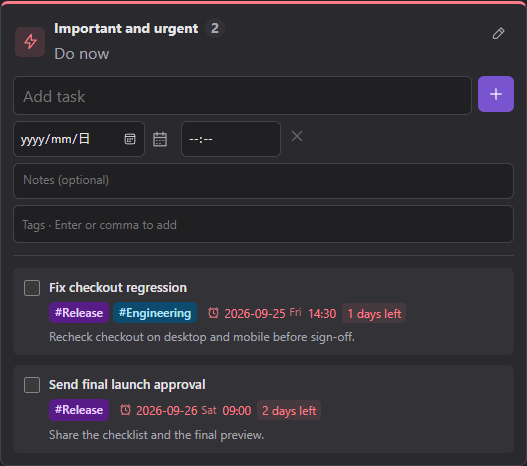
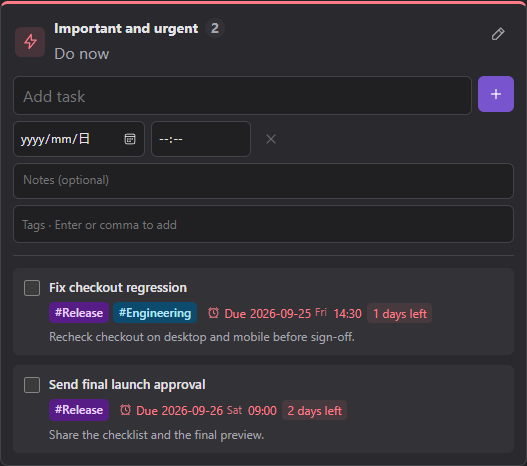
Refresh README previews for 2.7.6 and show labeled completion history

diff --git a/README.md b/README.md
@@ -20,7 +20,7 @@ Prioritize work by importance and urgency without leaving your notes. Add deadli
   <img src="docs/assets/renderer-overview-light.png" alt="Four quadrants with task cards, colored tags, deadlines and completed-history controls">
 </picture>
 
-*Version 2.7.4 renderer preview, using [fictional launch-planning tasks](docs/demo/Matrix%20Demo.md). The browser harness simulates the Obsidian shell and icons; your theme, native date picker and device may look different. [Media details](docs/assets/README.md).*
+*Version 2.7.6 renderer preview, using [fictional launch-planning tasks](docs/demo/Matrix%20Demo.md). The browser harness simulates the Obsidian shell and icons; your theme, native date picker and device may look different. [Media details](docs/assets/README.md).*
 
 - **Local to every note:** each matrix owns its tasks and completed history, and a note can contain more than one matrix.
 - **Markdown-backed:** tasks, quadrants, ordering, and completion times travel with the note through Obsidian Sync, Remotely Save, or Git.
@@ -60,7 +60,7 @@ The default quadrants are **Do** (important and urgent), **Schedule** (important
 
 In **Settings → Community plugins**, check for updates and update this plugin on each device. For a manual update, replace the same three files with files from **one release**, then reload the plugin or Obsidian; leave your notes and `data.json` intact. Do not use GitHub's automatic **Source code** ZIP as an installable plugin package.
 
-Back up your notes before upgrading. **Update all devices to 2.7.0 or later before editing tags or deadline times:** older versions can discard those fields when saving. Usage notes describe [2.7.6](https://github.com/AngusK97/obsidian-eisenhower-matrix-blocks/releases/tag/2.7.6); previews were captured with 2.7.4. See the [changelog](CHANGELOG.md) for changes.
+Back up your notes before upgrading. **Update all devices to 2.7.0 or later before editing tags or deadline times:** older versions can discard those fields when saving. Usage notes and previews reflect [2.7.6](https://github.com/AngusK97/obsidian-eisenhower-matrix-blocks/releases/tag/2.7.6). See the [changelog](CHANGELOG.md) for changes.
 
 ## Boards belong to notes
 
@@ -147,6 +147,13 @@ IME composition is respected, so confirming Chinese text does not prematurely su
 - Collapse the board to show its title, quadrant names/counts and completed count.
 
 Collapse state, filters, scroll-display mode and unsaved input are temporary view state, not synced task data. Reopening or recreating the view can reset them; save a draft before leaving the note.
+
+<picture>
+  <source media="(prefers-color-scheme: dark)" srcset="docs/assets/renderer-completed-dark.png">
+  <img src="docs/assets/renderer-completed-light.png" alt="Completed tasks with separate Due and Completed on labels, without deadline countdowns">
+</picture>
+
+*Version 2.7.6 fictional renderer preview with the All date filter selected to show historical completions. The default filter remains Today.*
 
 ## Markdown-backed by design
 

diff --git a/README.zh-CN.md b/README.zh-CN.md
@@ -20,7 +20,7 @@
   <img src="docs/assets/renderer-overview-light.png" alt="四象限中的任务卡片、彩色标签、截止信息及完成记录控件">
 </picture>
 
-*2.7.4 实际插件渲染器预览，使用[虚构的发布计划任务](docs/demo/Matrix%20Demo.md)。浏览器预览模拟了 Obsidian 外壳和图标；真实主题、原生日历和不同设备的外观可能不同。参见[截图说明](docs/assets/README.md)。*
+*2.7.6 实际插件渲染器预览，使用[虚构的发布计划任务](docs/demo/Matrix%20Demo.md)。浏览器预览模拟了 Obsidian 外壳和图标；真实主题、原生日历和不同设备的外观可能不同。参见[截图说明](docs/assets/README.md)。*
 
 - **矩阵之间互不影响：** 任务和完成记录只属于所在矩阵；同一篇笔记也可以插入多张矩阵。
 - **数据保存在 Markdown 中：** 象限、任务顺序和完成时间都会随笔记一起同步和备份。
@@ -60,7 +60,7 @@
 
 在 **设置 → 第三方插件** 中检查更新，并在每台设备上更新本插件。手动更新时，使用**同一个 Release** 中的三个文件覆盖安装目录，然后重新加载插件或 Obsidian；不要删除笔记或 `data.json`。GitHub 自动提供的 **Source code** 压缩包不是可直接安装的插件包。
 
-升级前请备份笔记。**所有设备须先更新到 2.7.0 或更高版本，再编辑标签或截止时间**：旧版本保存矩阵时可能丢弃这些字段。当前说明对应 [2.7.6](https://github.com/AngusK97/obsidian-eisenhower-matrix-blocks/releases/tag/2.7.6)，预览图采集于 2.7.4，版本变化见[更新日志](CHANGELOG.md)。
+升级前请备份笔记。**所有设备须先更新到 2.7.0 或更高版本，再编辑标签或截止时间**：旧版本保存矩阵时可能丢弃这些字段。当前说明与预览图均对应 [2.7.6](https://github.com/AngusK97/obsidian-eisenhower-matrix-blocks/releases/tag/2.7.6)，版本变化见[更新日志](CHANGELOG.md)。
 
 ## 每张矩阵都属于所在笔记
 
@@ -147,6 +147,13 @@
 - 折叠整张矩阵后，摘要显示矩阵名称、各象限名称与数量，以及已完成数量。
 
 折叠、筛选、滚动显示模式和未提交输入属于临时视图状态，不随任务数据同步。重新打开或重建视图可能恢复默认状态；离开笔记前请先保存草稿。
+
+<picture>
+  <source media="(prefers-color-scheme: dark)" srcset="docs/assets/renderer-completed-dark.png">
+  <img src="docs/assets/renderer-completed-light.png" alt="已完成任务分别标明截止时间与实际完成时间，不再显示截止倒计时">
+</picture>
+
+*2.7.6 虚构任务渲染器预览；为展示历史完成记录，图中选择了“全部”日期筛选，默认仍为“今天”。英文界面的 Due 对应“截止”，Completed on 对应“完成于”。*
 
 ## 所有数据都在 Markdown 里
 

diff --git a/docs/assets/README.md b/docs/assets/README.md
@@ -4,7 +4,7 @@ All public media uses the fictional demo content in [`../demo/`](../demo/), neve
 
 ## Current README previews
 
-Captured on 2026-09-24 with the 2.7.4 production renderer in the browser test harness. The Obsidian shell and icons are simulated; these are not native Obsidian screenshots. Both READMEs disclose this distinction.
+Captured on 2026-09-24 with the 2.7.6 production renderer in the browser test harness. The Obsidian shell and icons are simulated; these are not native Obsidian screenshots. Both READMEs disclose this distinction.
 
 | File | Content |
 |---|---|
@@ -12,8 +12,10 @@ Captured on 2026-09-24 with the 2.7.4 production renderer in the browser test ha
 | `renderer-overview-dark.png` | Complete matrix, dark theme |
 | `renderer-task-details-light.png` | First quadrant and task metadata, light theme |
 | `renderer-task-details-dark.png` | First quadrant and task metadata, dark theme |
+| `renderer-completed-light.png` | Completed history with Due / Completed on labels, light theme |
+| `renderer-completed-dark.png` | Completed history with Due / Completed on labels, dark theme |
 
-To regenerate, start `node scripts/ui-preview.cjs`, then run `node scripts/capture-readme.cjs`. Use the Playwright and browser environment variables described in [`../../tests/browser/README.md`](../../tests/browser/README.md); no runtime plugin dependency is added. The script reads only the tracked demo note. Dates are fixed fictional data, so relative-day labels depend on the capture date. The default Today filter hides the demo's historical completed tasks; their total remains visible.
+To regenerate, start `node scripts/ui-preview.cjs`, then run `node scripts/capture-readme.cjs`. Use the Playwright and browser environment variables described in [`../../tests/browser/README.md`](../../tests/browser/README.md); no runtime plugin dependency is added. The script reads only the tracked demo note. Dates are fixed fictional data, so relative-day labels depend on the capture date. The overview keeps the default Today filter, hiding historical completed tasks while retaining their total. The completed-history close-up explicitly selects All and shows the original deadline separately from the actual completion timestamp, without countdowns.
 
 ## Historical native captures
 

diff --git a/docs/demo/Matrix Demo.md b/docs/demo/Matrix Demo.md
@@ -25,7 +25,7 @@
 
 ## Completed
 - [x] Review launch checklist #quadrant/do ✅ 2026-07-21
-  <!-- quadrant-task {"id":"demo-checklist","quadrant":"do","createdAt":"2026-07-20T08:00:00.000Z","completedAt":"2026-07-21T09:30:00.000Z","order":2} -->
+  <!-- quadrant-task {"id":"demo-checklist","quadrant":"do","createdAt":"2026-07-20T08:00:00.000Z","completedAt":"2026-07-21T09:30:00.000Z","order":2,"dueDate":"2026-07-21","dueTime":"18:00","tags":["Release"],"notes":"Confirm the release checklist with the team."} -->
 - [x] Archive outdated campaign notes #quadrant/eliminate ✅ 2026-07-20
   <!-- quadrant-task {"id":"demo-archive","quadrant":"eliminate","createdAt":"2026-07-20T08:00:00.000Z","completedAt":"2026-07-20T14:15:00.000Z","order":1} -->
 ```
